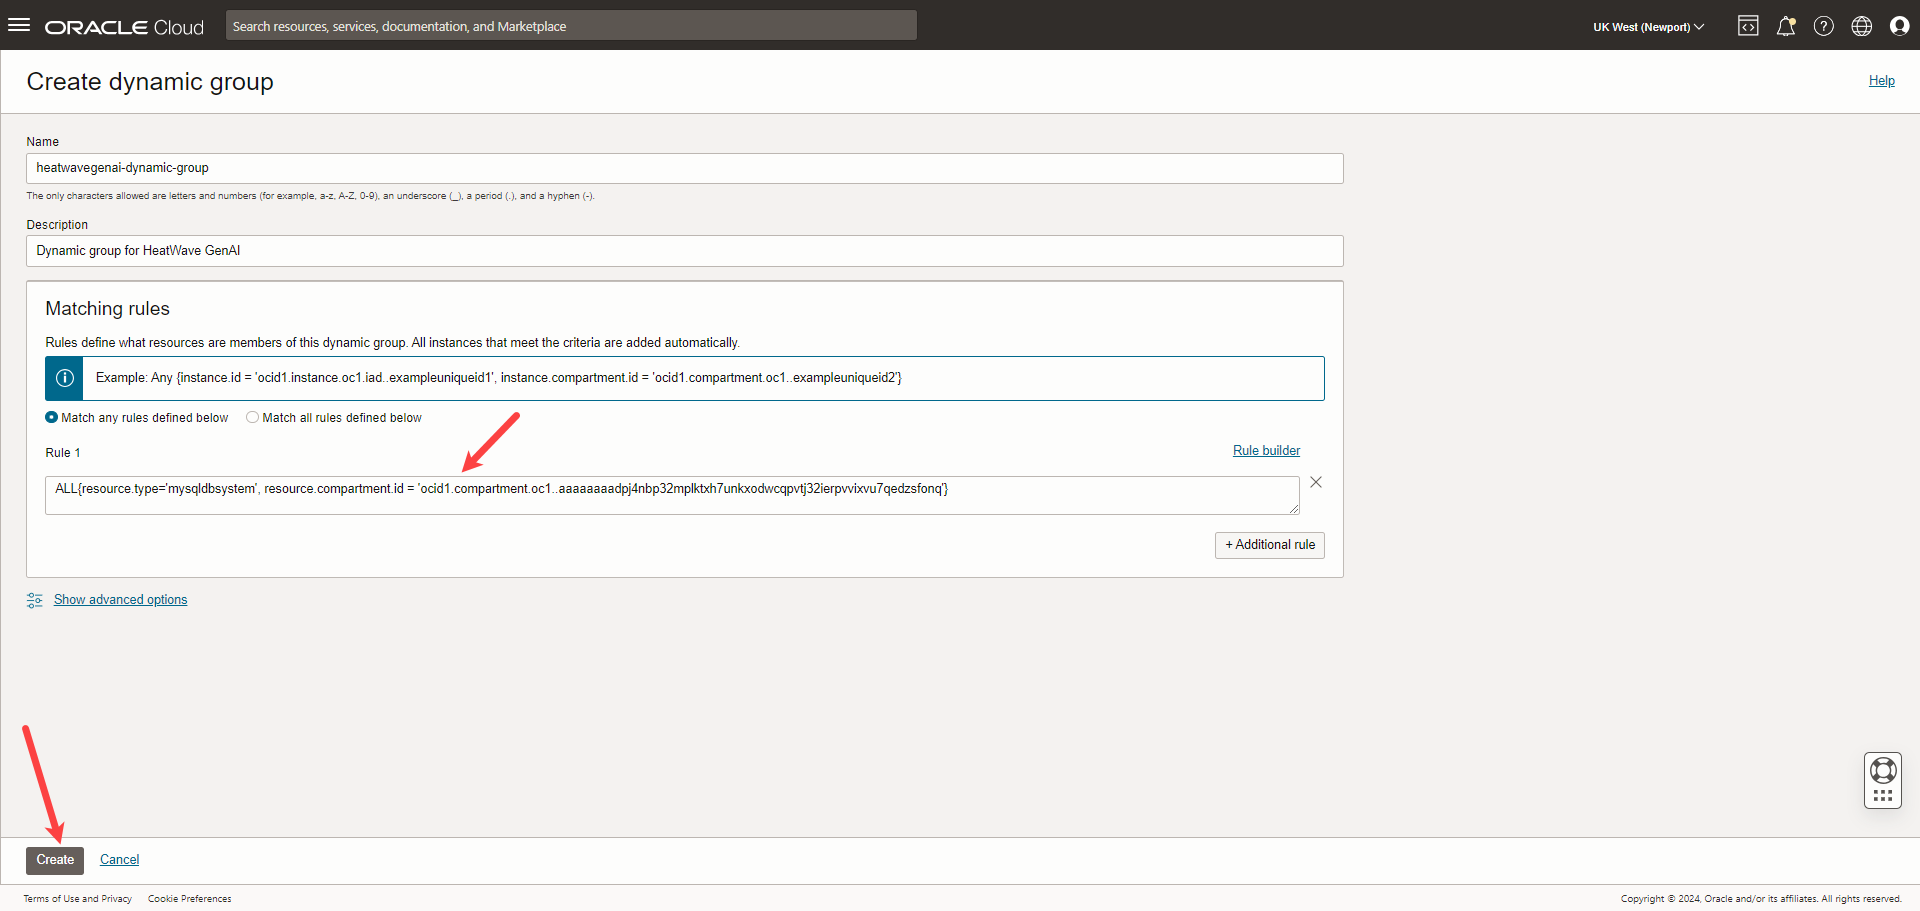
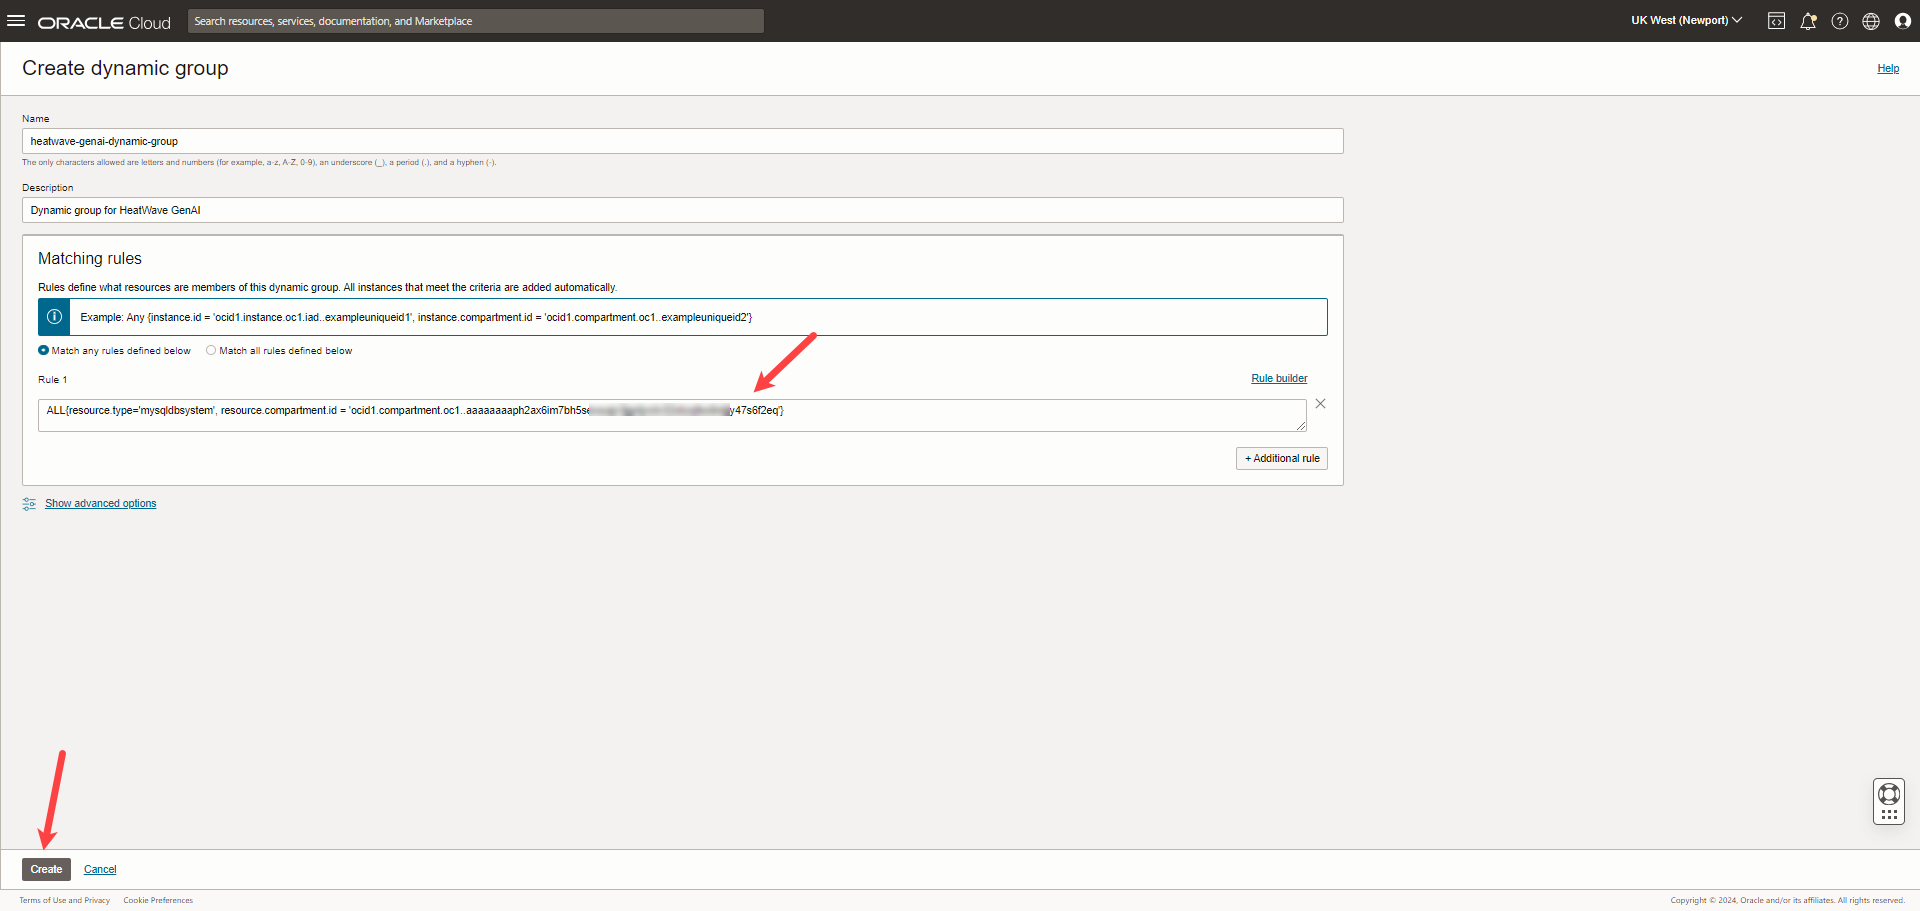
WMS ID: 11730: Updated Lab 4

diff --git a/vector-search/vector-search.md b/vector-search/vector-search.md
@@ -4,7 +4,7 @@
 
 Using the in-built vector store and retrieval-augmented generation (RAG), you can load and query unstructured documents stored in Object Storage using natural language within the HeatWave ecosystem.
 
-_Estimated Time:_ 10 minutes
+_Estimated Time:_ 30 minutes
 
 ### Objectives
 
@@ -52,7 +52,7 @@ The Object Storage service provides reliable, secure, and scalable object storag
 
     ![Bucket namespace](./images/35-bucket-namespace.png "Bucket namespace")
 
-7. Under **Objects**, click **More Action**, and then click **Create New Folder**.
+7. Under **Objects**, click **More Actions**, and then click **Create New Folder**.
 
     ![Create new folder](./images/31-create-new-folder.png "Create new folder")
 
@@ -68,11 +68,7 @@ The Object Storage service provides reliable, secure, and scalable object storag
 
 ## Task 2: Upload files to the bucket folder
 
-1.  In the **Object Storage & Archive Storage** page, click the bucket name.
-
-    ![View bucket details](./images/5-view-bucket-details.png "View bucket details")
-
-2.  Under **Objects**, click the bucket folder name.
+1.  In the **Bucket Details** page, under **Objects**, click the bucket folder name.
 
     ![Click bucket folder](./images/33-click-bucket-folder.png "Click bucket folder")
 
@@ -108,37 +104,17 @@ Dynamic groups allow you to group Oracle Cloud Infrastructure resources as princ
 
     ![Click Domain](./images/19-click-domain.png "Click Domain")
 
-2. Click **Create domain**.
+2. Click the domain, **Default**. Note that you had logged into OCI Console using the default identity domain.
 
-    1. Enter a name for the domain in **Display name**.
+    ![Click default domain](./images/39-default-domain.png "Click default domain")
 
-        ```bash
-        <copy>heatwave-genai-domain</copy>
-        ```
-
-    2. Enter a description:
-
-        ```bash
-        <copy>Domain for HeatWave GenAI</copy>
-        ```
-
-    3. Select **Free** in **Domain Type**.
-
-    4. Deselect **Create an administrator user for this domain**.
-
-    5. Click **Create domain**.
-
-        ![Create domain](./images/36-create-domain.png "Create domain")
-
-    6. Once the domain is created, click the name of the domain, **heatwave-genai-domain**.
-
-4. Under **Identity domain**, click **Dynamic groups**.
+3. Under **Identity domain**, click **Dynamic groups**.
 
     ![Click dynamic group](./images/21-click-dynamic-group.png "Click group")
 
-5. Click **Create dynamic group**.
+4. Click **Create dynamic group**.
 
-6. In the **Create dynamic group** page, enter a **Name** and a **Description** for the dynamic group. *Note* the name of the dynamic group.
+5. In the **Create dynamic group** page, enter a **Name** and a **Description** for the dynamic group. *Note* the name of the dynamic group.
 
     **Name**:
     
@@ -153,11 +129,13 @@ Dynamic groups allow you to group Oracle Cloud Infrastructure resources as princ
 
     ![Create dynamic group](./images/38-create-dynamic-group.png "Create dynamic group")
 
-7. Enter the followng rule:
+6. Enter the followng rule:
 
     ```bash
     <copy>ALL{resource.type='mysqldbsystem', resource.compartment.id = '<OCIDComparment>'}</copy>
     ```
+    Replace OCIDComparment with the OCID of the compartment you had copied in Task 3.
+
     For example:
 
     ```bash
@@ -195,19 +173,19 @@ To access Object Storage from HeatWave, you must define a policy that enables th
 
 4. Ensure that the Compartment is **heatwave-genai**.
 
-5. Toggle the **Show manual editor** button, and paste the following policy.
+5. Toggle the **Show manual editor** button, and paste the following policy. *Note* that you can use the following command only when you have logged into OCI Console using the default domain.
 
     ```bash
-    <copy>Allow dynamic-group <IdentityDomain>/<DynamicGroupName> to read buckets in compartment <CompartmentName></copy>
-    <copy>Allow dynamic-group <IdentityDomain>/<DynamicGroupName> to read objects in compartment <CompartmentName></copy>
+    <copy>Allow dynamic-group <DynamicGroupName> to read buckets in compartment <CompartmentName></copy>
+    <copy>Allow dynamic-group <DynamicGroupName> to read objects in compartment <CompartmentName></copy>
     ```
-    Replace IdentityDomain with the identity domain, DynamicGroupName with the name of the dynamic group, and CompartmentName with the name of the compartment.
+    Replace DynamicGroupName with the name of the dynamic group, and CompartmentName with the name of the compartment. 
 
     For example:
         
     ```bash
-    <copy>Allow dynamic-group heatwave-genai-domain/heatwave-genai-dynamic-group to read buckets in compartment heatwave-genai</copy>
-    <copy>Allow dynamic-group heatwave-genai-domain/heatwave-genai-dynamic-group to read objects in compartment heatwave-genai</copy>
+    <copy>Allow dynamic-group heatwave-genai-dynamic-group to read buckets in compartment heatwave-genai</copy>
+    <copy>Allow dynamic-group heatwave-genai-dynamic-group to read objects in compartment heatwave-genai</copy>
     ```
 
   6. Click **Create**.
@@ -264,20 +242,19 @@ Pre-authenticated requests provide a way to let you access a bucket or an object
 4. Ingest the file from the Object Storage, create vector embeddings, and load the vector embeddings into HeatWave:
 
     ```bash
-    <copy>call sys.VECTOR_STORE_LOAD('oci://BucketName@Namespace/Path/Filename', '{"table_name": "VectorStoreTableName"}');</copy>
+    <copy>call sys.VECTOR_STORE_LOAD('oci://BucketName@Namespace/Path/', '{"table_name": "VectorStoreTableName"}');</copy>
     ```
     Replace the following:
 
     - BucketName: The OCI Object Storage bucket name.
     - Namespace: The name of the Object Storage bucket namespace.
     - Path: Path to the folder that contains the source file.
-    - Filename: The filename with the file extension.
     - VectorStoreTableName: The name you want for the vector store table
    
     For example:
 
     ```bash
-    <copy>call sys.VECTOR_STORE_LOAD('oci://bucket-vector-search@axoumfbmk7ld/bucket-folder-heatwave/heatwave-aws-service-guide.pdf', '{"table_name": "livelab_embedding"}');</copy>
+    <copy>call sys.VECTOR_STORE_LOAD('oci://bucket-vector-search@axoumfbmk7ld/bucket-folder-heatwave/', '{"table_name": "livelab_embedding"}');</copy>
     ```
 
     ![Ingest files from Object Storage](./images/14-ingest-files.png "Ingest files from Object Storage")

diff --git a/connect-dbs-vscode/connect-dbs-vscode.md b/connect-dbs-vscode/connect-dbs-vscode.md
@@ -40,9 +40,9 @@ Before you can get started, you must set up a DB Connection to the HeatWave inst
 
     ![My profile](./images/3-profile.png "My profile")
 
-6.	Under **Resources**, click **API keys**, and click **Add API key**.
+2.  Under **Resources**, click **API keys**, and click **Add API key**.
 
-7. Click **Download private key**.
+3. Click **Download private key**.
     
     1. Store the API key in a .oci folder inside your home directory.
 
@@ -52,17 +52,19 @@ Before you can get started, you must set up a DB Connection to the HeatWave inst
         <copy>oci_api_key.pem</copy>
         ```
 
-8. In the **Add API key** panel, click **Add**.
+        ![OCI API Key](./images/17-oci-api-key.png "OCI API Key")
+
+4. Switch to OCI Console, and in the **Add API key** panel, click **Add**.
     
     ![Download private key](./images/4-add-api-key.png "Download private key")
 
-8. Copy the configuration file text and switch to VS Code.
+5. Copy the configuration file text and switch to VS Code.
 
     ![Copy configuration file](./images/5-copy-config.png "Copy configuration file")
 
-9. In VS Code, select the **MySQL Shell for VS Code** extension.
+6. In VS Code, select the **MySQL Shell for VS Code** extension.
 
-10. Click **Configure the OCI Profile List** in the **ORACLE CLOUD INFRASTRUCTURE** view, and paste the configuration file text into the config file.
+7. Click **Configure the OCI Profile List** in the **ORACLE CLOUD INFRASTRUCTURE** view, and paste the configuration file text into the config file.
 
     - Rename the top section from [DEFAULT] to the name of the tenancy, [TenancyName]
 
@@ -70,7 +72,7 @@ Before you can get started, you must set up a DB Connection to the HeatWave inst
 
     ![Save configuration file](./images/6-save-config.png "Save configuration file")
 
-11. Close the file and reload the **ORACLE CLOUD INFRASTRUCTURE** view. Within a couple of minutes, you can browse the resources of your OCI tenancy.
+8. Close the file and reload the **ORACLE CLOUD INFRASTRUCTURE** view. Within a couple of minutes, you can browse the resources of your OCI tenancy.
 
     ![Tenancy details](./images/7-tenancy-details.png "Tenancy details")
 
@@ -89,16 +91,18 @@ Before you can get started, you must set up a DB Connection to the HeatWave inst
 
     ![Database Connection Configuration](./images/10-database-connection.png "Database Connection Configuration")
 
-4. Click **OK** to create the connection. 
+4. It takes a couple of minutes to create the Bastion.
 
-5. Click **Open New Database Connection** icon to connect to the DB system. 
+5. Once the Bastion is created, click **OK** to create the connection. 
+
+6. Under **DATABASE CONNECTIONS**, click **Open New Database Connection** icon next to your DB system to connect to it. 
 
     ![Open New Database Connection](./images/11-open-database-connection.png "Open New Database Connection")
 
-6. Check whether you are connected to the DB system by running the following command:
+7. Check whether you are connected to the DB system by entering the following command and clicking **Execute the selection or full block on HeatWave and create a new block**.
 
     ```bash
-    show databases;
+    <copy>show databases;</copy>
     ```
 
     ![New Database Connection](./images/12-show-databases.png "New Database Connection")

diff --git a/generate-content/generate-content.md b/generate-content/generate-content.md
@@ -34,7 +34,7 @@ In this lab, you will be guided through the following task:
         <copy>call sys.ML_MODEL_LOAD('llama2-7b-v1', NULL);</copy>
         ```
 
-    ![Load LLMs](./images/1-load-llm.png "Load LLMs")
+        ![Load LLMs](./images/1-load-llm.png "Load LLMs")
  
 2. Set the @query session variable with your query in natural language.
 

diff --git a/create-dbs/create-dbs.md b/create-dbs/create-dbs.md
@@ -20,7 +20,7 @@ In this lab, you will be guided through the following tasks:
 
 - An Oracle trial or paid cloud account.
 - Some experience with MySQL Shell.
-- Must complete Lab 1.
+- You have logged into the OCI Console using the default identity domain.
 
 ## Task 1: Create Compartment
 
